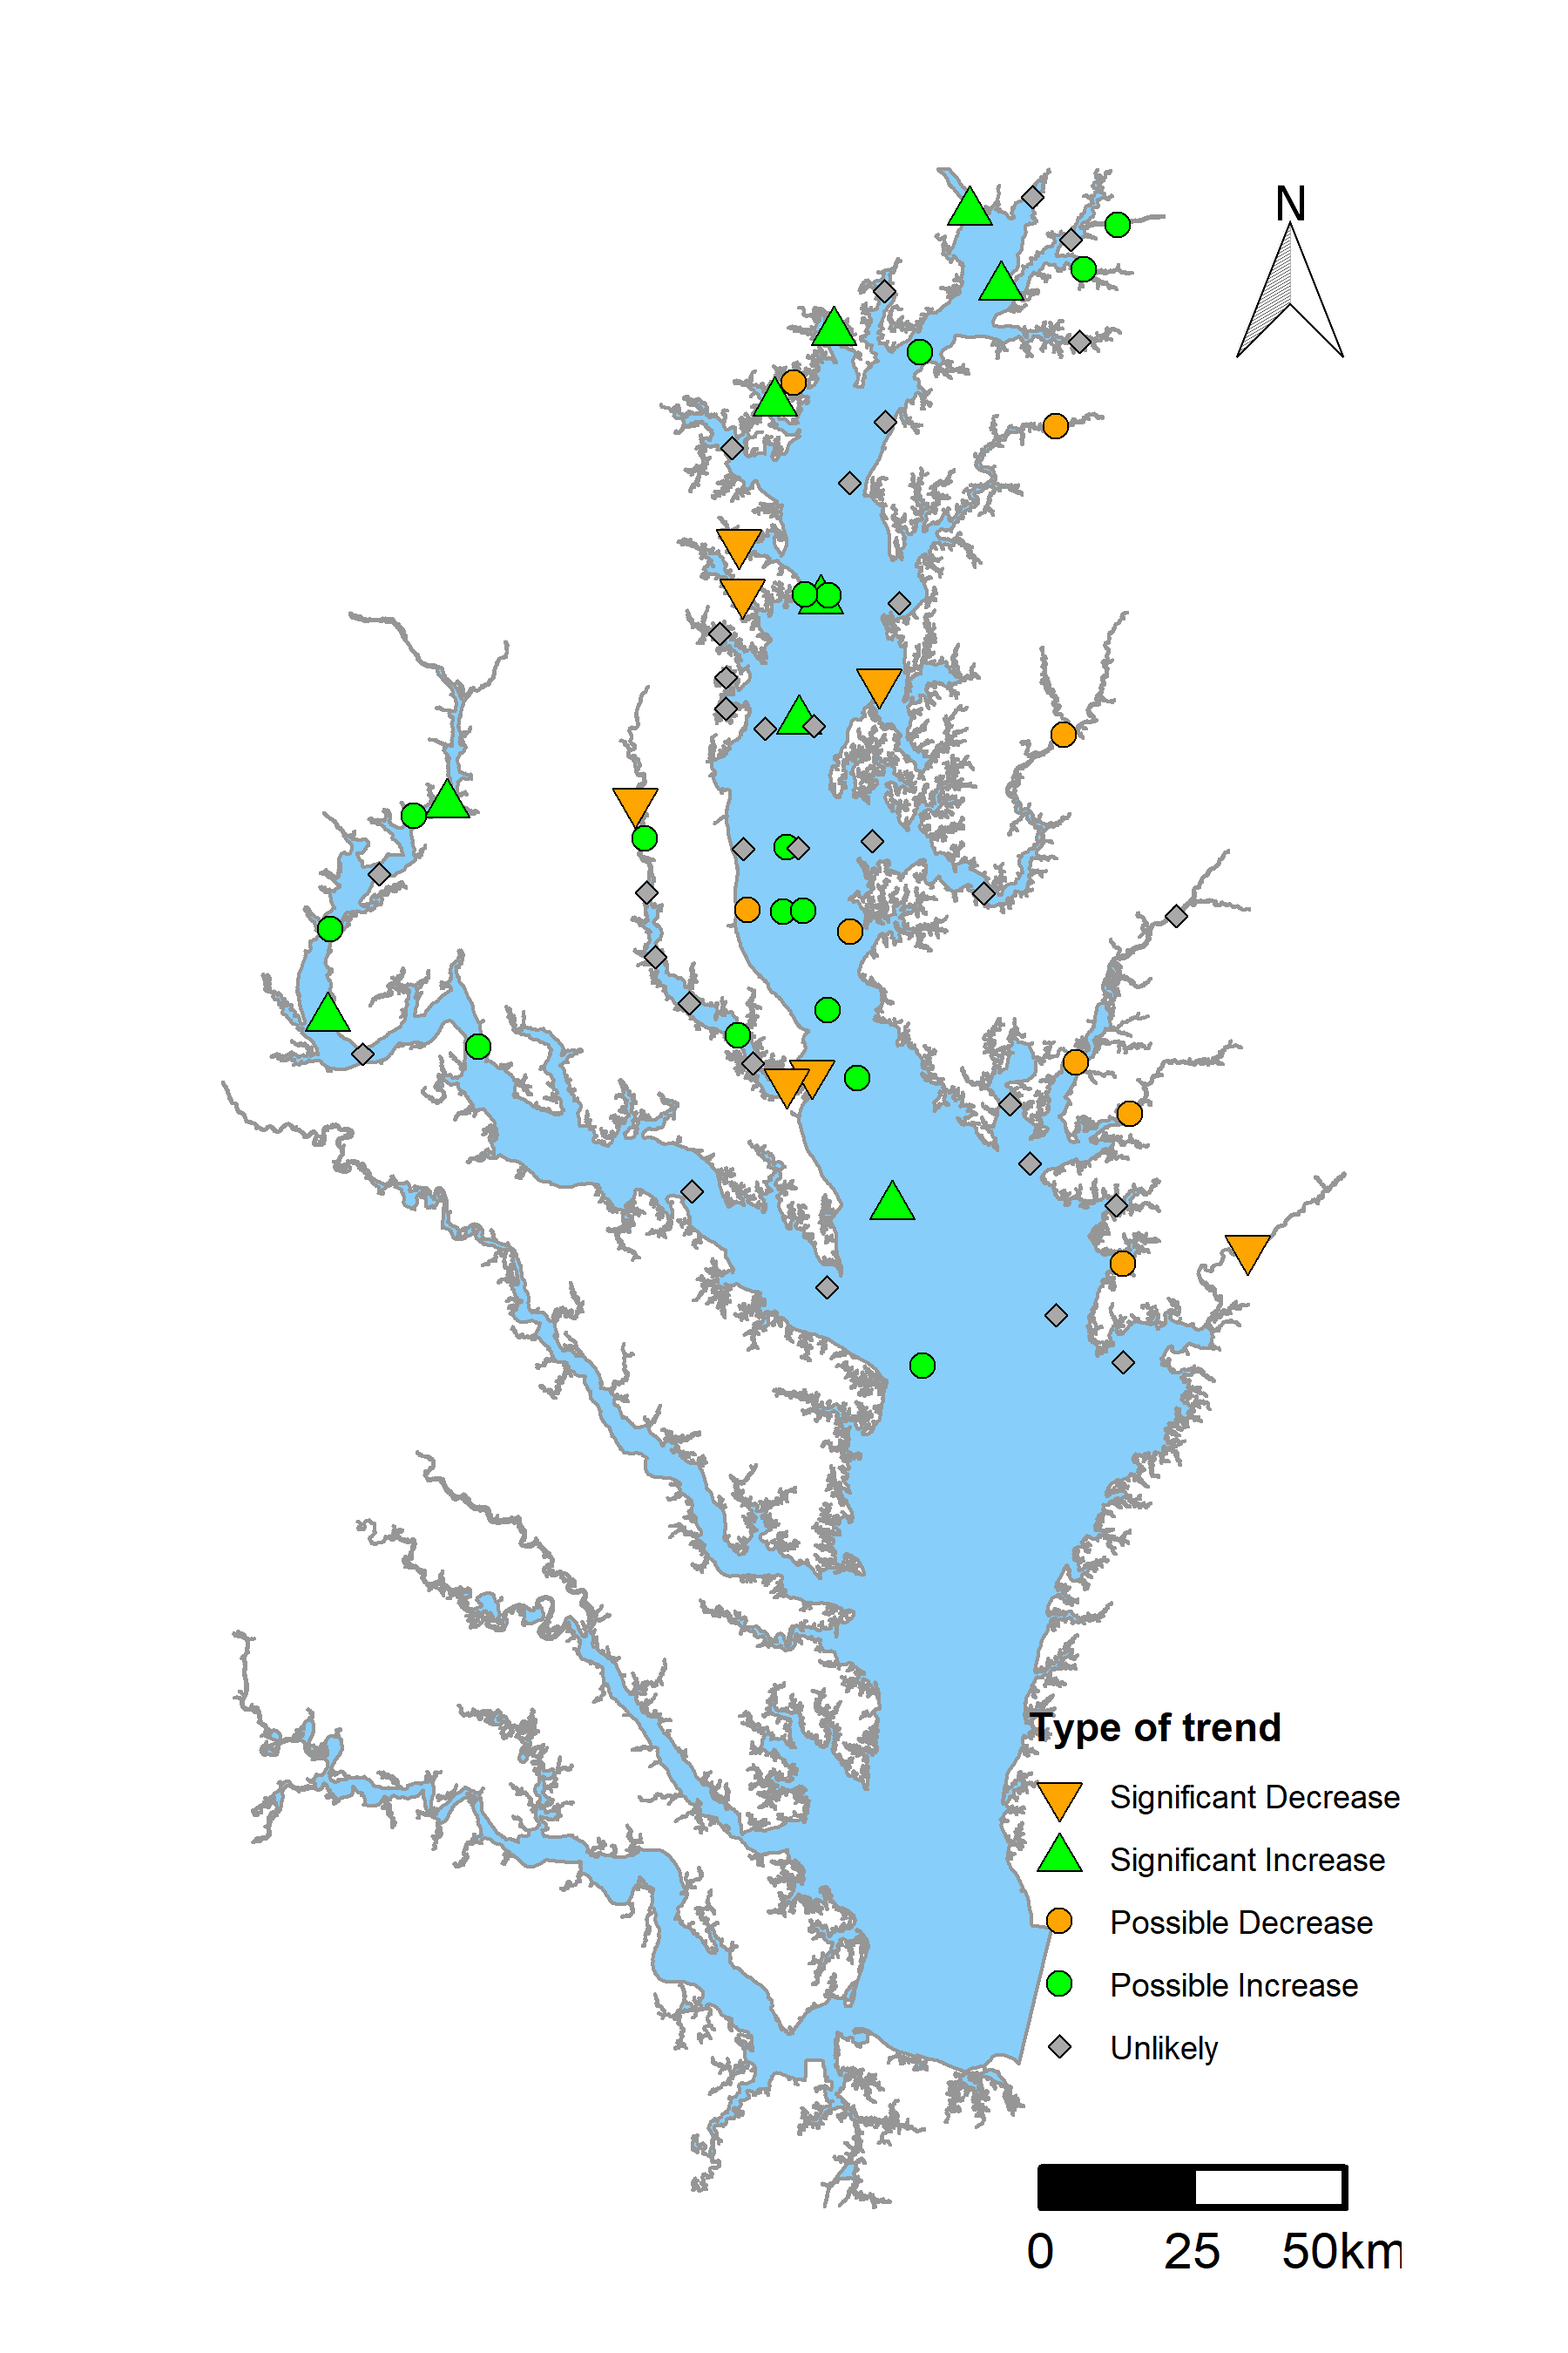
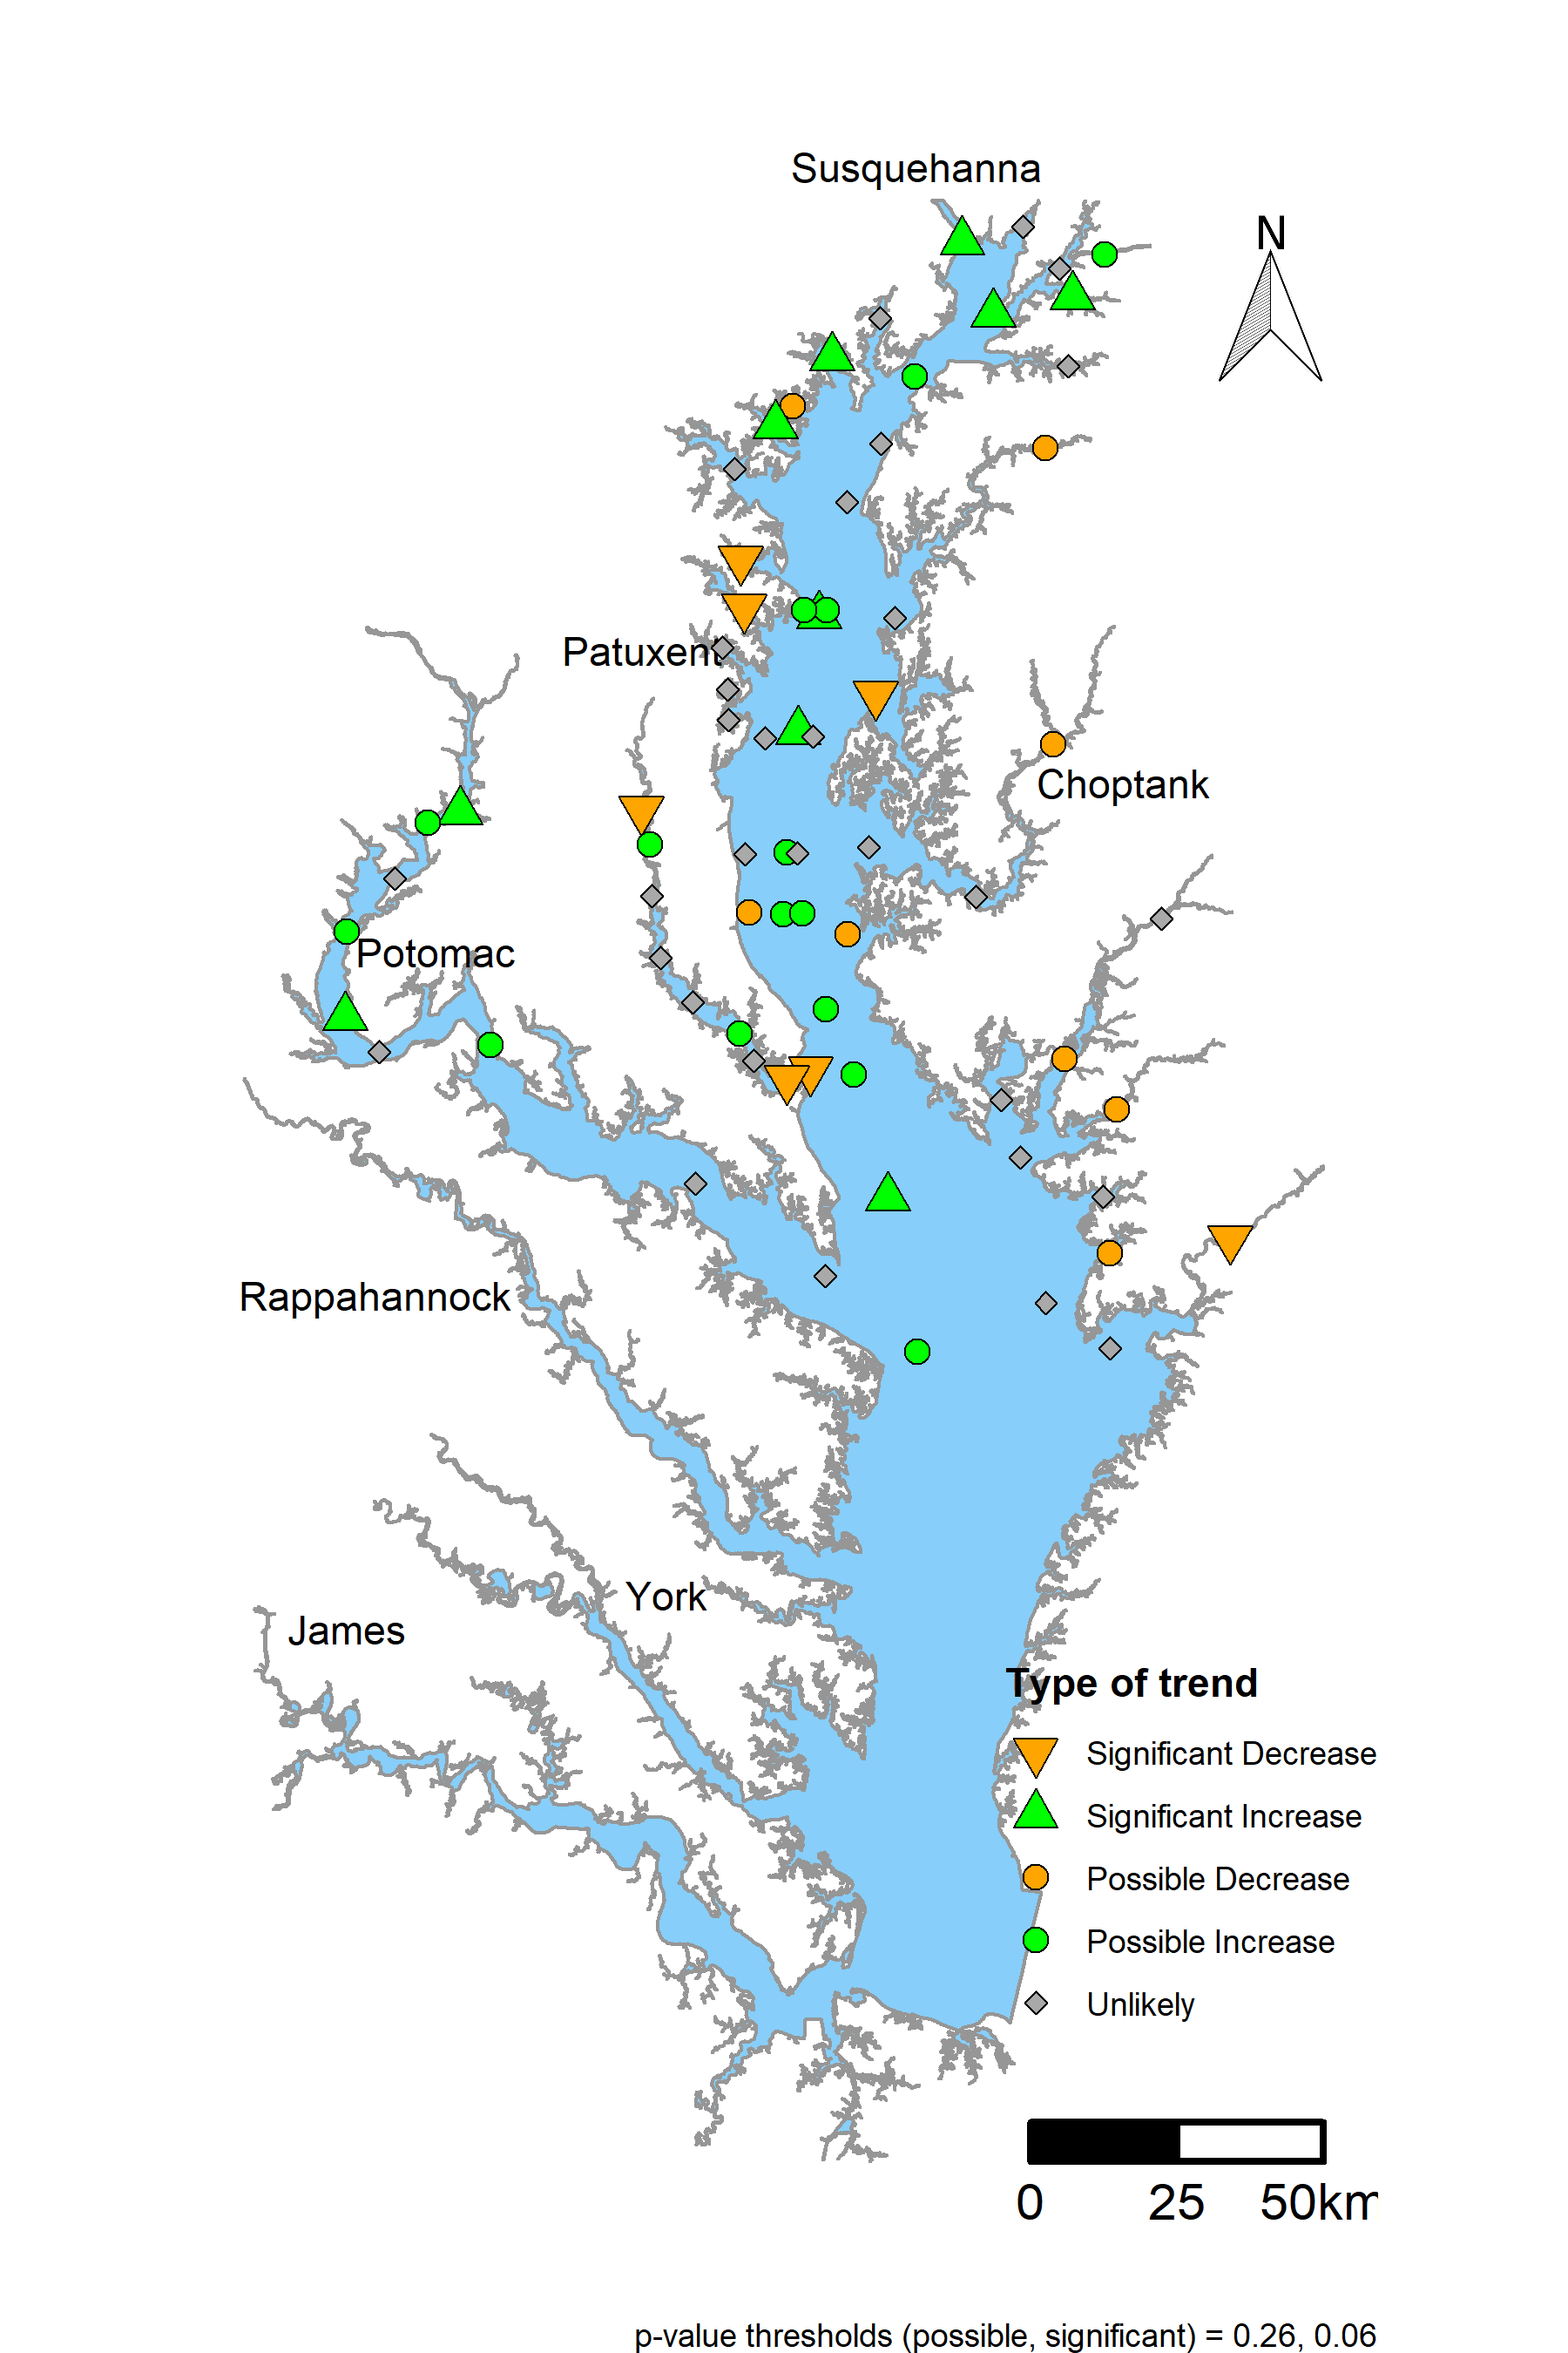
v1.0.0.9012
Modify trend map p-values; Issue #10

diff --git a/NEWS.md b/NEWS.md
@@ -4,7 +4,13 @@ NEWS
 
 <!-- NEWS.md is generated from NEWS.Rmd. Please edit that file -->
 
-    #> Last Update: 2020-05-28 11:49:17
+    #> Last Update: 2020-06-07 09:16:11
+
+# baytrendsmap 1.0.0.9012
+
+Released - 2020-06-07
+
+  - Modify trend map p-values; Issue \#10
 
 # baytrendsmap 1.0.0.9011
 
